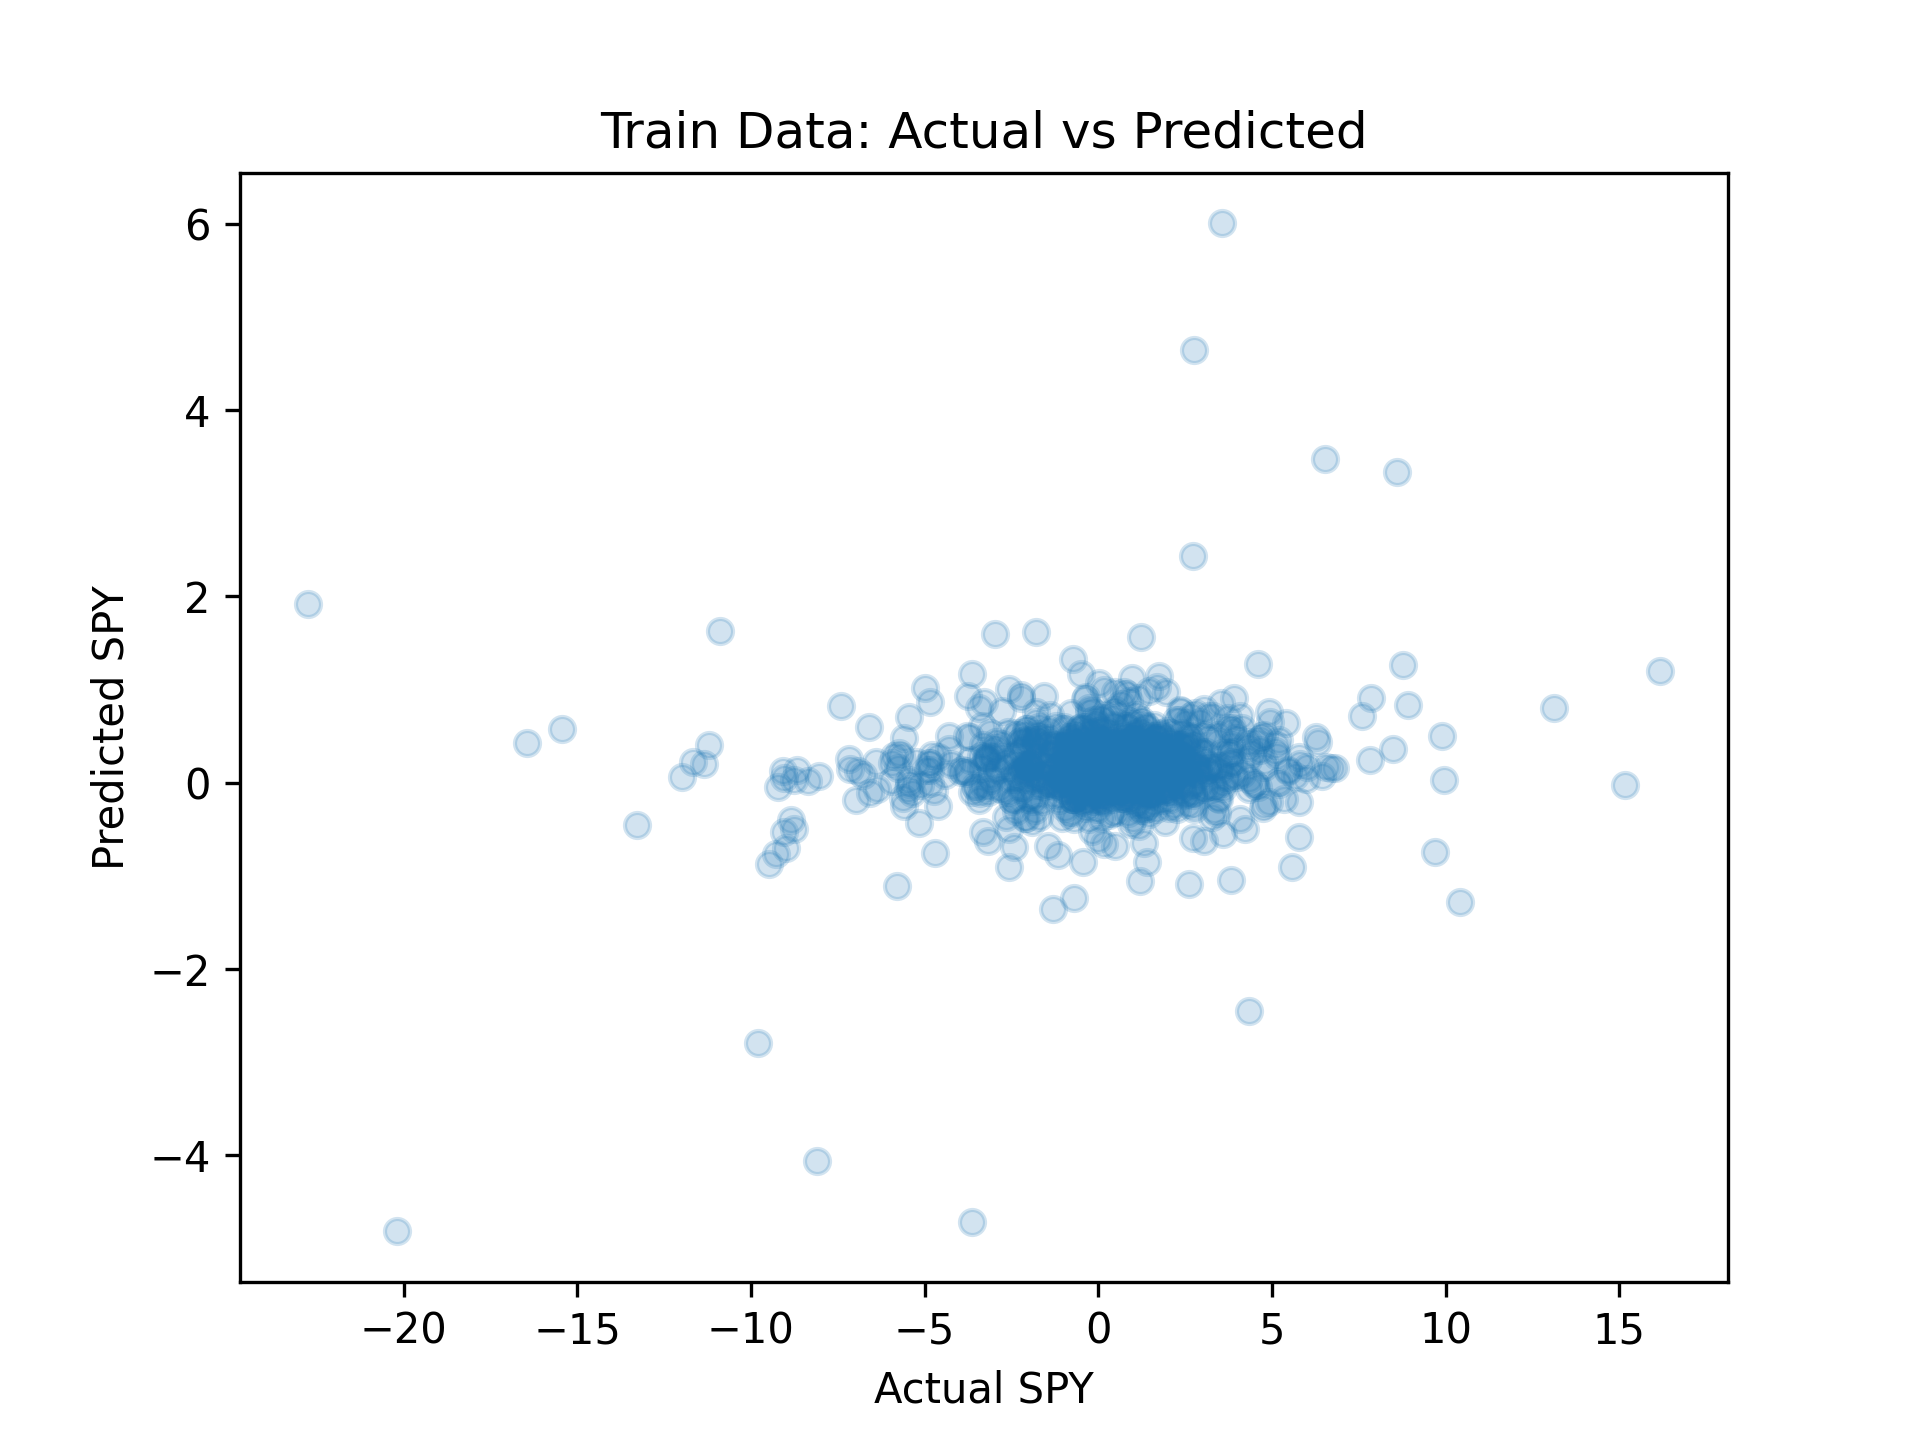
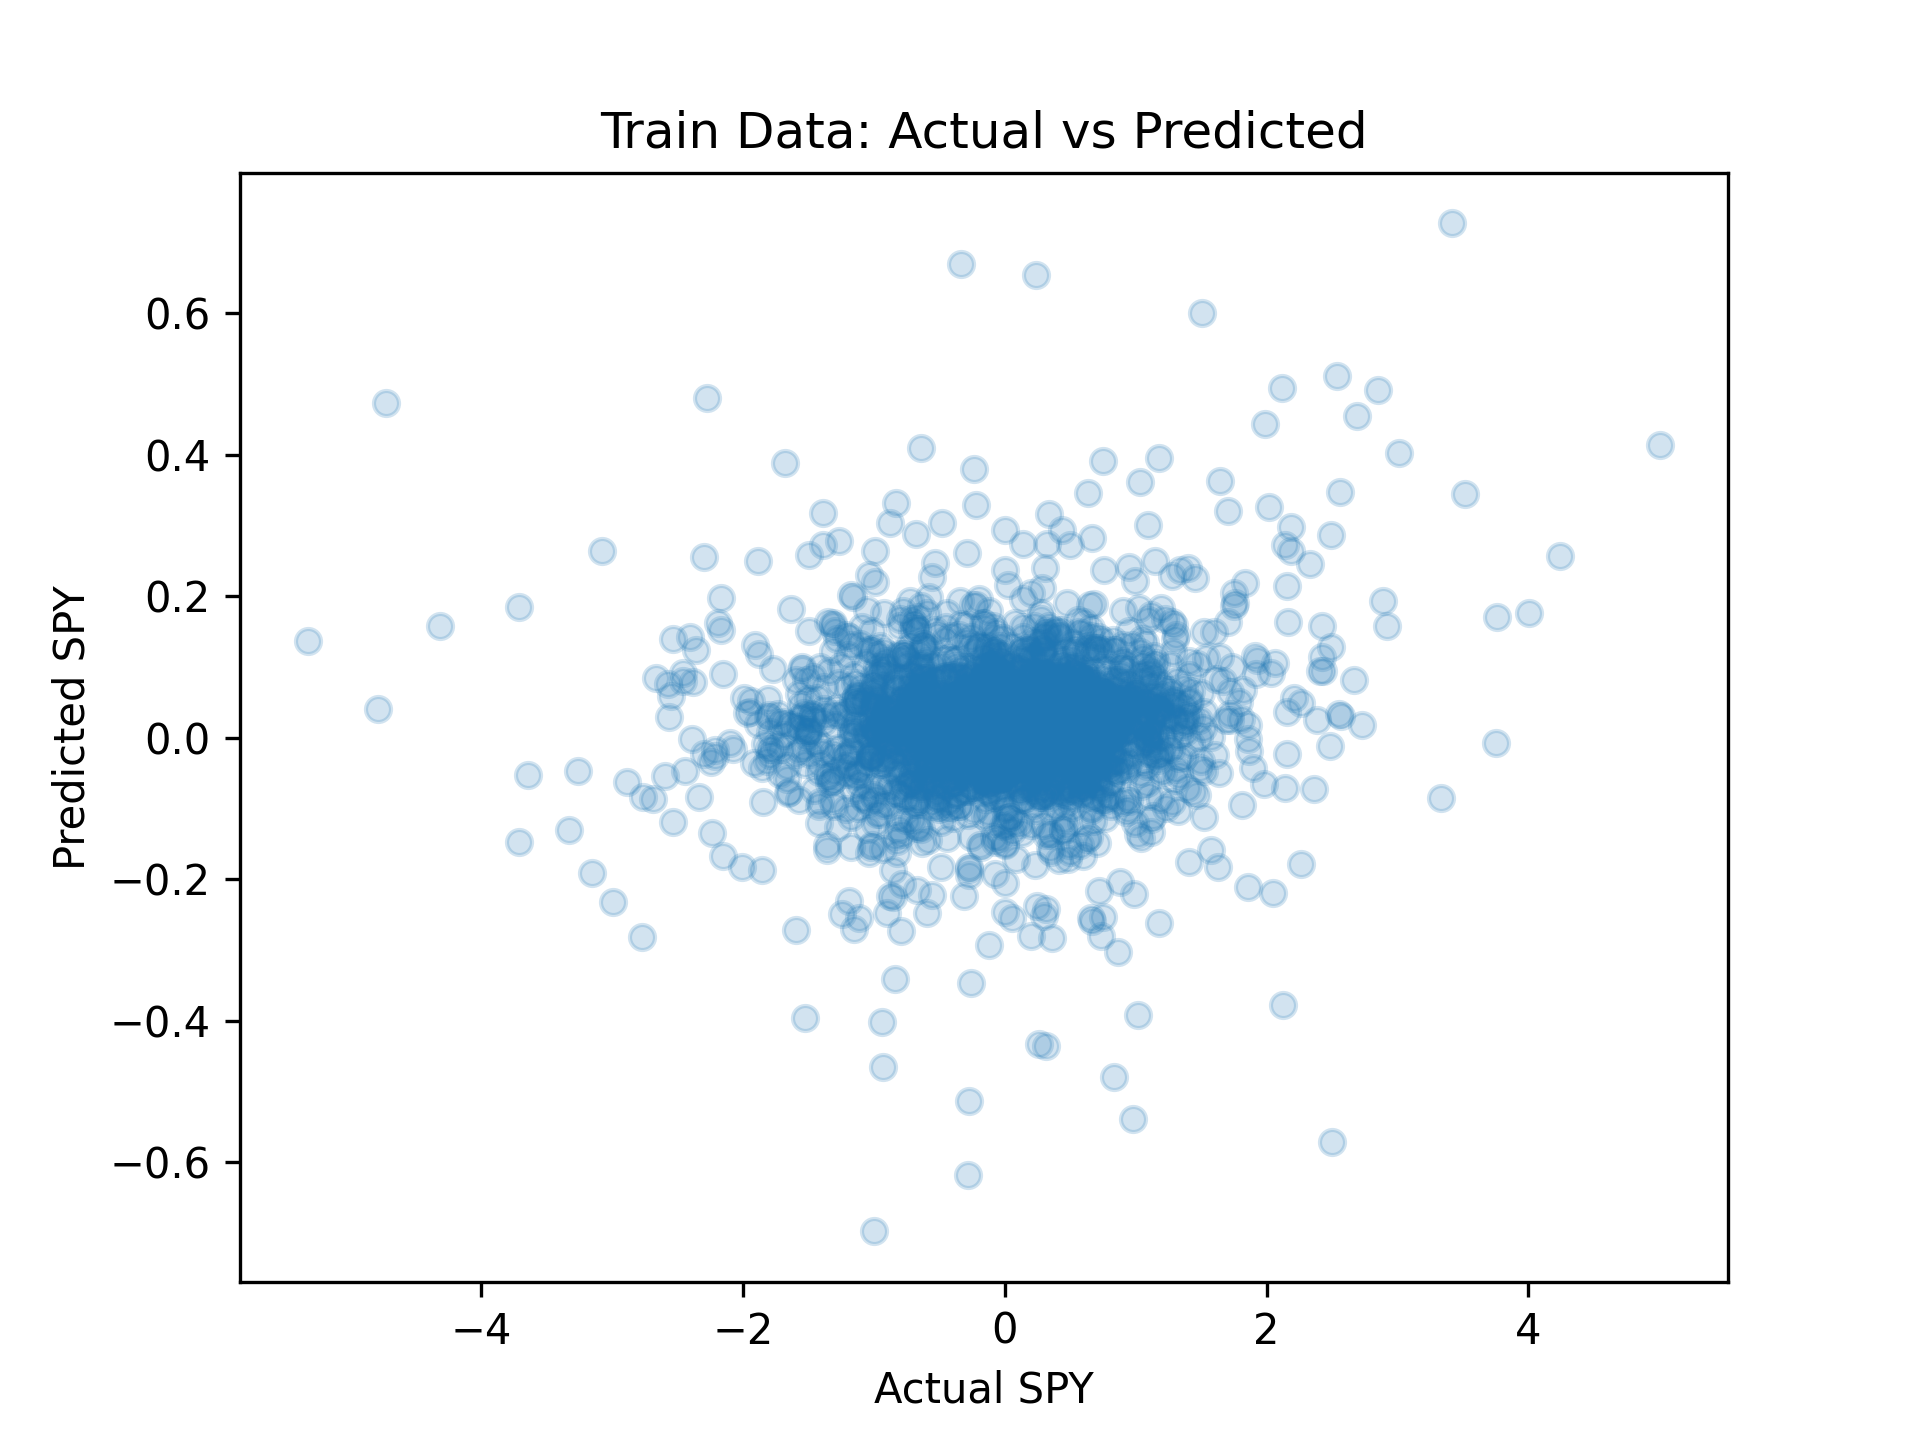
v1.4

diff --git a/linear_regression.py b/linear_regression.py
@@ -31,7 +31,7 @@ indicepanel['dji'] = dji['Open'] - dji['Open'].shift(1)
 indicepanel['cac40'] = cac40['Open'] - cac40['Open'].shift(1)
 indicepanel['daxi'] = daxi['Open'] - daxi['Open'].shift(1)
 
-indicepanel['aord'] = aord['Close'] - aord['Open'] 
+indicepanel['aord'] = aord['Close'] - aord['Open']
 indicepanel['hsi'] = hsi['Close'] - hsi['Open']
 indicepanel['nikkei'] = nikkei['Close'] - nikkei['Open']
 
@@ -50,8 +50,15 @@ indicepanel = indicepanel.dropna()
 # data splitting
 #_________________________
 
-Train = indicepanel.iloc[-2000:-1000,:].copy()
-Test = indicepanel.iloc[-1000:,:].copy()
+split_index = int(len(indicepanel) * 0.42)
+
+Train = indicepanel.iloc[:split_index, :].copy()
+Test = indicepanel.iloc[split_index:, :].copy()
+
+
+# Train = indicepanel.iloc[-2000:-1000,:].copy()
+# Test = indicepanel.iloc[-1000:,:].copy()
+
 #print(Train.shape, Test.shape)
 
 sm = scatter_matrix(Train, alpha=0.2, figsize=(10, 10))
@@ -190,5 +197,3 @@ Test['Drawdown'] = (Test['Peak'] - Test['Wealth'] ) / Test['Peak']
 print("")
 print("Maximum drawdonw in train is ", Train['Drawdown'].max())
 print("Maximum drawdonw in test is ", Test['Drawdown'].max())
-
-
